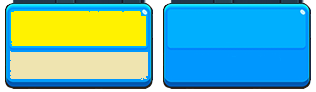
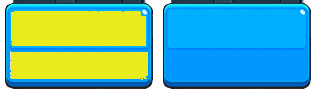
add label score and level with file.json

Changed region(s): [[0.0285, 0.1087, 0.4842, 0.5], [0.0285, 0.5652, 0.4842, 0.8696]]

diff --git a/app/src/main/java/model/screens/MenuScreen.java b/app/src/main/java/model/screens/MenuScreen.java
@@ -17,6 +17,7 @@ import com.badlogic.gdx.scenes.scene2d.utils.ClickListener;
 import launcher.BaseGame;
 import launcher.ClashRoyale;
 import model.actors.BaseActor;
+import model.actors.users.User;
 import model.utilities.AnimationUtilities;
 import model.utilities.Audio;
 
@@ -25,11 +26,12 @@ import model.utilities.Audio;
  */
 public class MenuScreen extends BaseScreen {
   private Audio audio;
-  private TextureAtlas atlas;
-  private Skin skin;
+  private TextureAtlas atlas, atlasLabel;
+  private Skin skin, skinLabel;
   private Table table;
-  private TextButton buttonPlay, buttonExit;
-  private Label heading;
+  private TextButton buttonPlay, buttonExit, buttonLevel, buttonScore;
+  private Label heading, level;
+  private User user;
 
   @Override
   public void initialize() {
@@ -44,15 +46,19 @@ public class MenuScreen extends BaseScreen {
     table = new Table(skin);
     table.setBounds(0, 0, Gdx.graphics.getWidth(), Gdx.graphics.getHeight());
 
+    //creating configuration labelbutton
+    
+    
     //creating heading
     heading = new Label(ClashRoyale.TITLE, skin);
-
+    atlasLabel = new TextureAtlas("buttons/scoreLabel.pack");
+    skinLabel = new Skin(Gdx.files.internal("buttons/menuSkinLabel.json"), atlasLabel);
+    
     //creating buttons
     buttonPlay = new TextButton("Play", skin);
     buttonPlay.addListener(new ClickListener() {
       @Override
       public void clicked(InputEvent event, float x, float y) {
-        audio.stop();
         BaseGame.setActiveScreen(new GameScreen());
       }
     });
@@ -67,7 +73,9 @@ public class MenuScreen extends BaseScreen {
     });  
 
     buttonExit.pad(15);
-
+    user = new User("Panini");
+    buttonLevel = new TextButton("Score " +String.valueOf(user.getCurrentXP()), skinLabel);
+    buttonScore = new TextButton(user.getCurrentLevel().toString(), skinLabel);
     table.add(heading);
     table.getCell(heading).spaceBottom(100);
     table.row();
@@ -75,6 +83,11 @@ public class MenuScreen extends BaseScreen {
     table.row();
     table.add(buttonExit);
     super.getUiStage().addActor(table);
+    super.getUiStage().addActor(buttonLevel);
+    buttonLevel.setPosition(Gdx.graphics.getWidth()-buttonLevel.getWidth(), Gdx.graphics.getHeight()-buttonLevel.getHeight());
+    super.getUiStage().addActor(buttonScore);
+    buttonScore.setPosition(0, Gdx.graphics.getHeight()-buttonLevel.getHeight());
+
   }
 
   @Override
